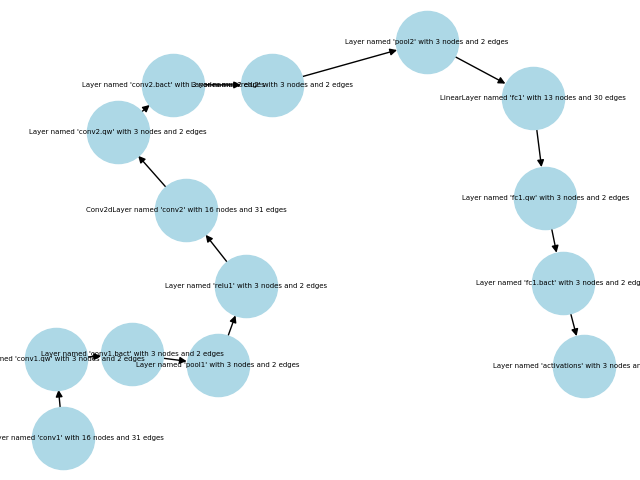
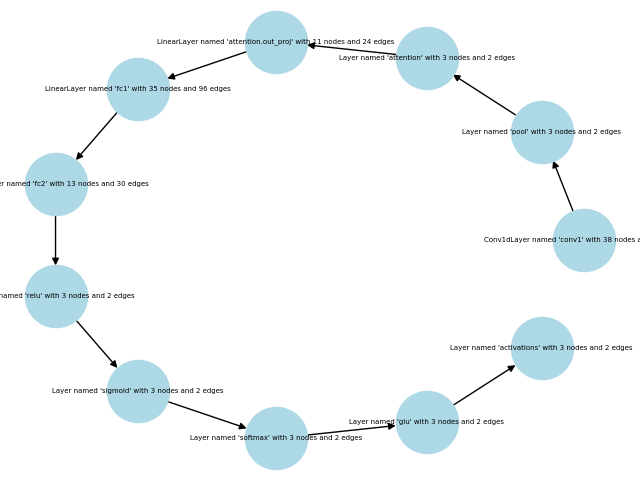
generated new model

Changed region(s): [[0.0, 0.0, 1.0, 1.0], [0.2812, 0.8125, 0.7812, 1.0], [0.75, 0.7812, 0.7812, 0.8125]]

diff --git a/nngraph/layer.py b/nngraph/layer.py
@@ -10,10 +10,9 @@ class LayerType(Enum):
     CONV1D=1
     CONV2D=2
     LINEAR=3
-    
     UNKNOWN=0
 
-class Layer(nx.DiGraph): # node
+class Layer(nx.DiGraph):
     def __init__(self, name:str, type:LayerType, label:str="OP", build_dummy_op=True):
         super().__init__()
         self.name=name # unique
@@ -33,11 +32,11 @@ class Layer(nx.DiGraph): # node
     def __repr__(self):
         return f"Layer(name={self.name},\n type={self.type})"
 
-    def add_input_name(self, name:str):
-        self.inputs.append(name)
+    def add_input(self, node):
+        self.inputs.append(node)
 
-    def add_output_name(self, name:str):
-        self.outputs.append(name)
+    def add_output(self, node):
+        self.outputs.append(node)
 
     def get_node(self, name:str)->Operation:
         for node in self.nodes():
@@ -50,10 +49,10 @@ class Layer(nx.DiGraph): # node
 
     def _build_operations(self):
         self.add_node(InputOP('Input'+self.name,[None]))
-        self.add_input_name(self.get_node('Input'+self.name).get_name())
+        self.add_input(self.get_node('Input'+self.name))
         self.add_node(Operation('OP'+self.name, label=self.name))
         self.add_node(OutputOP('Output'+self.name,[None]))
-        self.add_output_name(self.get_node('Output'+self.name).get_name())
+        self.add_output(self.get_node('Output'+self.name))
 
         self.add_edge(self.get_node('Input'+self.name), self.get_node('OP'+self.name))
         self.add_edge(self.get_node('OP'+self.name), self.get_node('Output'+self.name))
@@ -119,7 +118,7 @@ class Conv1dLayer(Layer):
         self.add_node(ConstOP("Kernel" + self.name, [self.kernel_size], "Kernel"))
         self.add_edge(self.get_node('Weight' + self.name), self.get_node('Kernel' + self.name))
         self.add_node(InputOP("Input" + self.name, [self.in_channels, self.input_length]))
-        self.add_input_name(self.get_node('Input'+self.name).get_name())
+        self.add_input(self.get_node('Input'+self.name))
 
         #grey
         self.add_node(PaddOP("Padding" + self.name, self.padding))
@@ -129,7 +128,7 @@ class Conv1dLayer(Layer):
 
         #green
         self.add_node(OutputOP("Output" + self.name, [self.out_channels, self._calc_out_size()]))
-        self.add_output_name(self.get_node('Output' + self.name).get_name())
+        self.add_output(self.get_node('Output' + self.name))
 
         #macs
         for i in range(self.out_channels):
@@ -157,7 +156,7 @@ class Conv2dLayer(Layer):
                  stride=[1, 1], padding=[1, 1], dilation=[1, 1], bias=None, sparsity=0.0, label="Conv2d"):
         super().__init__(name, LayerType.CONV2D, label + ": " + name, False)
         self.in_channels = in_channels
-        self.out_channels = 1 # out_channels
+        self.out_channels = out_channels
         self.kernel_size = kernel_size 
         self.input_height = input_height
         self.input_width = input_width
@@ -184,7 +183,7 @@ class Conv2dLayer(Layer):
         self.add_edge(self.get_node("Weight" + self.name), self.get_node("Kernel" + self.name))
 
         self.add_node(InputOP("Input" + self.name, [self.in_channels, self.input_height, self.input_width]))
-        self.add_input_name(self.get_node("Input" + self.name).get_name())
+        self.add_input(self.get_node("Input" + self.name))
 
         # grey
         self.add_node(PaddOP("Padding" + self.name, self.padding))
@@ -194,7 +193,7 @@ class Conv2dLayer(Layer):
 
         # green
         self.add_node(OutputOP("Output" + self.name, [self.out_channels, self._calc_out_height(), self._calc_out_width()]))
-        self.add_output_name(self.get_node("Output" + self.name).get_name())
+        self.add_output(self.get_node("Output" + self.name))
 
         # macs
         for i in range(self.out_channels):
@@ -246,11 +245,11 @@ class Conv2dLayer(Layer):
             # blue
             self.add_node(ConstOP("Weight" + self.name, [self.out_features, self.in_features], "Weight"))
             self.add_node(InputOP("Input" + self.name, [self.in_features]))
-            self.add_input_name(self.get_node('Input' + self.name).get_name())
+            self.add_input(self.get_node('Input' + self.name))
 
             #green
             self.add_node(OutputOP("Output" + self.name, [self.out_features]))
-            self.add_output_name(self.get_node('Output' + self.name).get_name())
+            self.add_output(self.get_node('Output' + self.name))
 
             #macs
             for i in range(self.out_features):
@@ -283,11 +282,11 @@ class LinearLayer(Layer):
         # blue
         self.add_node(ConstOP("Weight" + self.name, [self.out_features, self.in_features], "Weight"))
         self.add_node(InputOP("Input" + self.name, [self.in_features]))
-        self.add_input_name(self.get_node('Input'+self.name).get_name())
+        self.add_input(self.get_node('Input'+self.name))
 
         #green
         self.add_node(OutputOP("Output" + self.name, [self.out_features]))
-        self.add_output_name(self.get_node('Output'+self.name).get_name())
+        self.add_output(self.get_node('Output'+self.name))
 
         #macs
         for i in range(self.out_features):

diff --git a/nngraph/graph.py b/nngraph/graph.py
@@ -9,53 +9,34 @@ import networkx as nx
 from nngraph.layer import *
 
 class Graph(nx.DiGraph):
-    def __init__(self, file_path='./model4.pkl', output_path='./nngraph/outputs', excluded_params = ["weight"]):
+    def __init__(self, input_pkl_path='./models/model_big.pkl', output_path='./nngraph/outputs', excluded_params = ["weight"]):
         super().__init__()
         self.types = ['conv1d', 'conv2d', 'linear']
 
-        self.graph_dict={}
-        self.file_path=file_path
+        self.input_pkl_path=input_pkl_path
         self.pkl_dump={}
         self.layer_names=[]
         self.excluded=excluded_params
         self.output_path=output_path
 
         self._read_pkl()
-        self._read_layers()
         self._build_graph()
     
     def visualize(self):
         self._render_operational()
 
     def _read_pkl(self):
-        with open(self.file_path, 'rb') as file:
+        with open(self.input_pkl_path, 'rb') as file:
             self.pkl_dump:dict = pickle.load(file)
         
         assert "modules" in self.pkl_dump.keys()
         self.layer_names = self.pkl_dump["modules"]
-        for name in self.layer_names:
-            self.graph_dict[name] = ""
 
     def _calc_sparsity(self, weights):
         total_elements = weights.numel()
         non_zero_elements = (abs(weights) != 0).sum().item()
         sparsity = 1 - (non_zero_elements / total_elements)
         return sparsity
-
-    def _read_layers(self):
-        for name in self.layer_names:
-            self.graph_dict[name] += str(name) + "\n\n"
-            for key in self.pkl_dump[name].keys():
-                if isinstance(self.pkl_dump[name][key], dict):
-                    for key2 in self.pkl_dump[name][key]:
-                        if key2 not in self.excluded:
-                            self.graph_dict[name] += str(key2) + ": " + str(self.pkl_dump[name][key][key2]) + "\n"
-                else:
-                    if key not in self.excluded:
-                        self.graph_dict[name] += str(key) + ": " + str(self.pkl_dump[name][key]) + "\n"
-            
-            if "_parameters" in self.pkl_dump[name] and "weight" in self.pkl_dump[name]["_parameters"]:
-                self.graph_dict[name] += "sparsity: " + str(self._calc_sparsity(self.pkl_dump[name]["_parameters"]["weight"]))
 
     def _get_layer_type(self, name):
         type = None
@@ -170,7 +151,7 @@ class Graph(nx.DiGraph):
 
             for output in prev_layer.outputs: # fix for multiple outputs
                 for input in layer.inputs:
-                    dot.edge(output, input)
+                    dot.edge(output.get_name(), input.get_name())
             prev_layer=layer
 
         dot.render(self.output_path + '/operational_graph', format='png', cleanup=True) 

diff --git a/nngraph/visualizer.py b/nngraph/visualizer.py
@@ -8,7 +8,7 @@ from torchviz import make_dot
 import torch.nn as nn
 
 class Visualizer():
-    def __init__(self, file_path='./model3.pkl', output_graph_path="./nngraph/outputs", 
+    def __init__(self, file_path='./models/model3.pkl', output_graph_path="./nngraph/outputs", 
                 output_func_graph_path='./nngraph/outputs', excluded_params = ["weight"], threshold=100):
         torch.set_printoptions(threshold=threshold)
         node_attr = dict(style='filled',
@@ -200,6 +200,3 @@ class Visualizer():
         plt.imshow(img)
         plt.axis('off')
         plt.show()
-
-viz = Visualizer()      
-viz.visualize()

diff --git a/test.py b/test.py
@@ -2,9 +2,14 @@ import torch
 import matplotlib.pyplot as plt
 import networkx as nx
 from nngraph.graph import Graph
+from nngraph.visualizer import Visualizer
 
 g = Graph()
 g.visualize()
-pos = nx.spring_layout(g)
+pos = nx.circular_layout(g)
+# pos = {n: (n, n) for n in g} 
 nx.draw(g, pos, with_labels=True, node_size=2000, node_color='lightblue', font_size=5)
 plt.savefig(g.output_path+'/graph_test.png')
+
+viz = Visualizer()      
+viz.visualize()

diff --git a/nngraph/operation.py b/nngraph/operation.py
@@ -16,7 +16,7 @@ class OperationType(Enum):
     CONST=9
     UNKNOWN=0
 
-class Operation: # node
+class Operation:
     def __init__(self, name:str, type:OperationType=0, label:str="OP"):
         self.name=name # unique
         self.label=label
